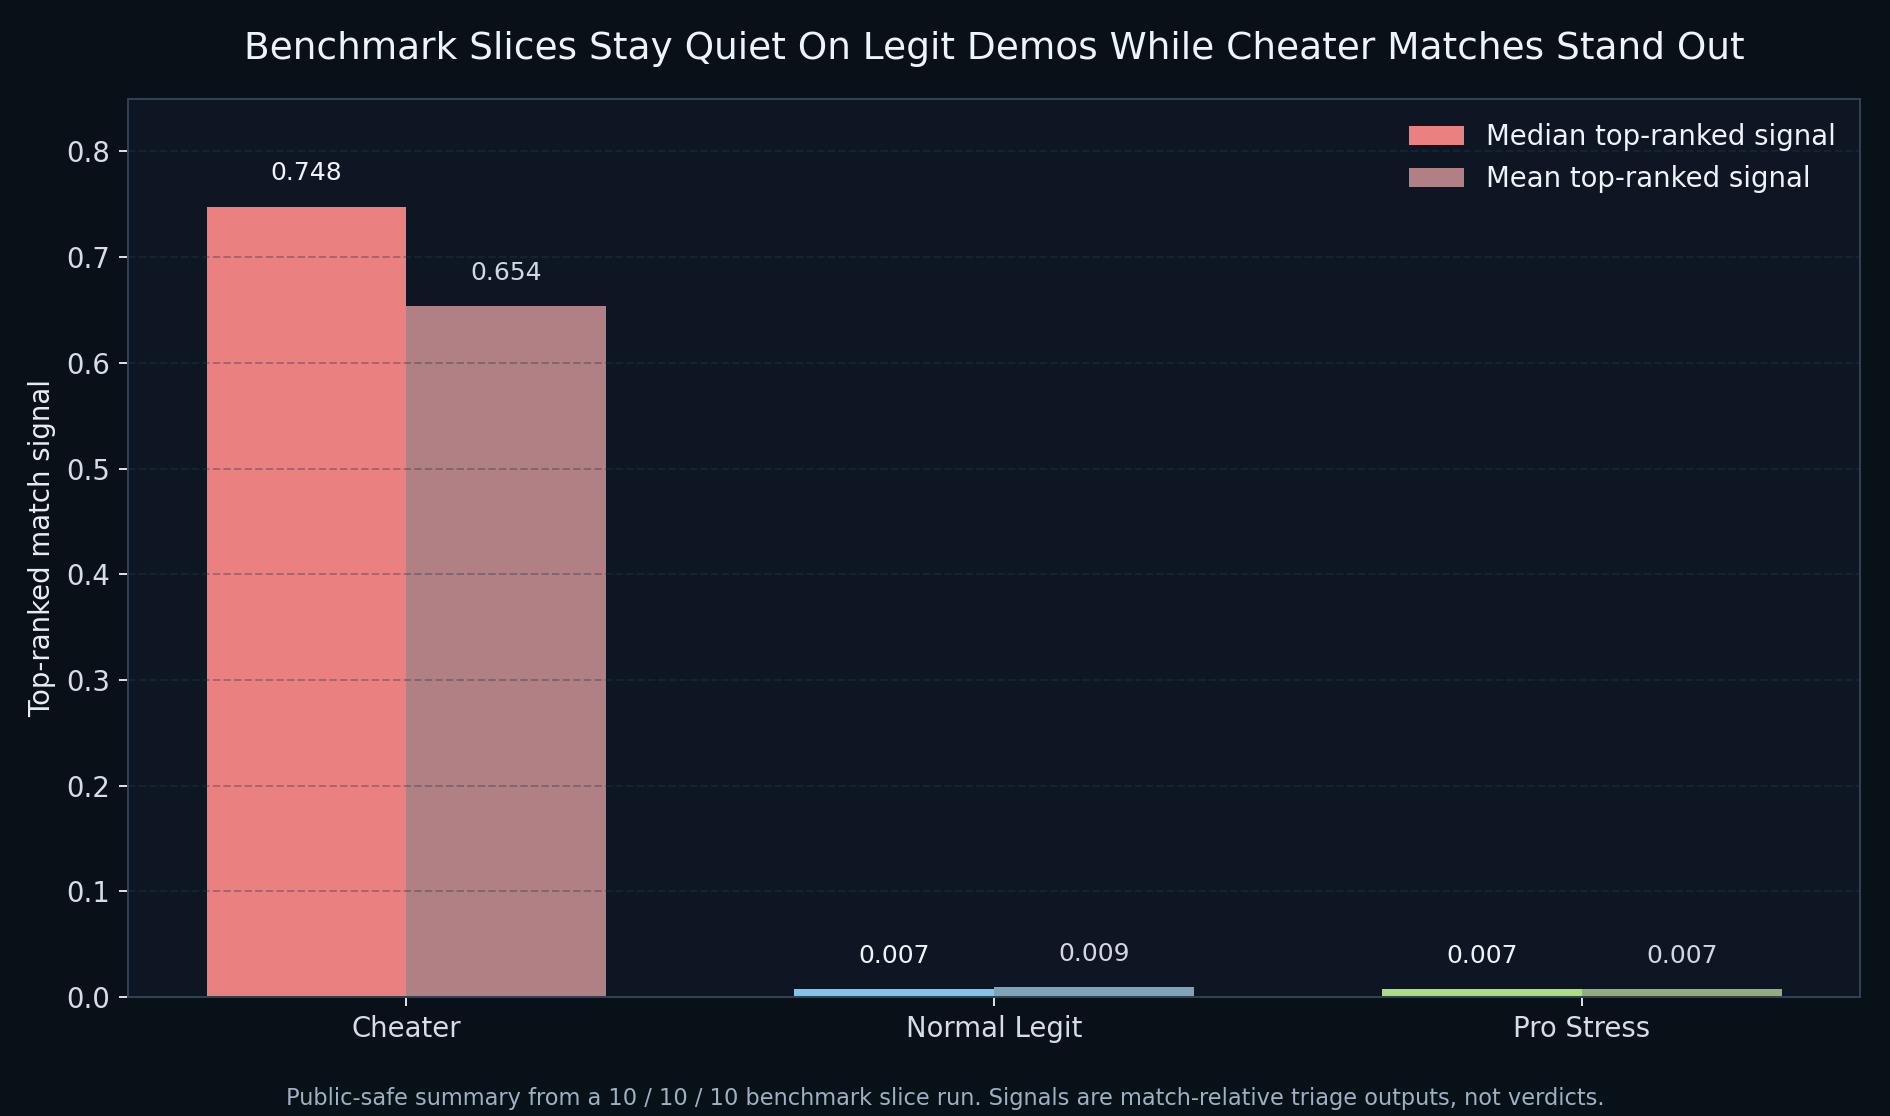
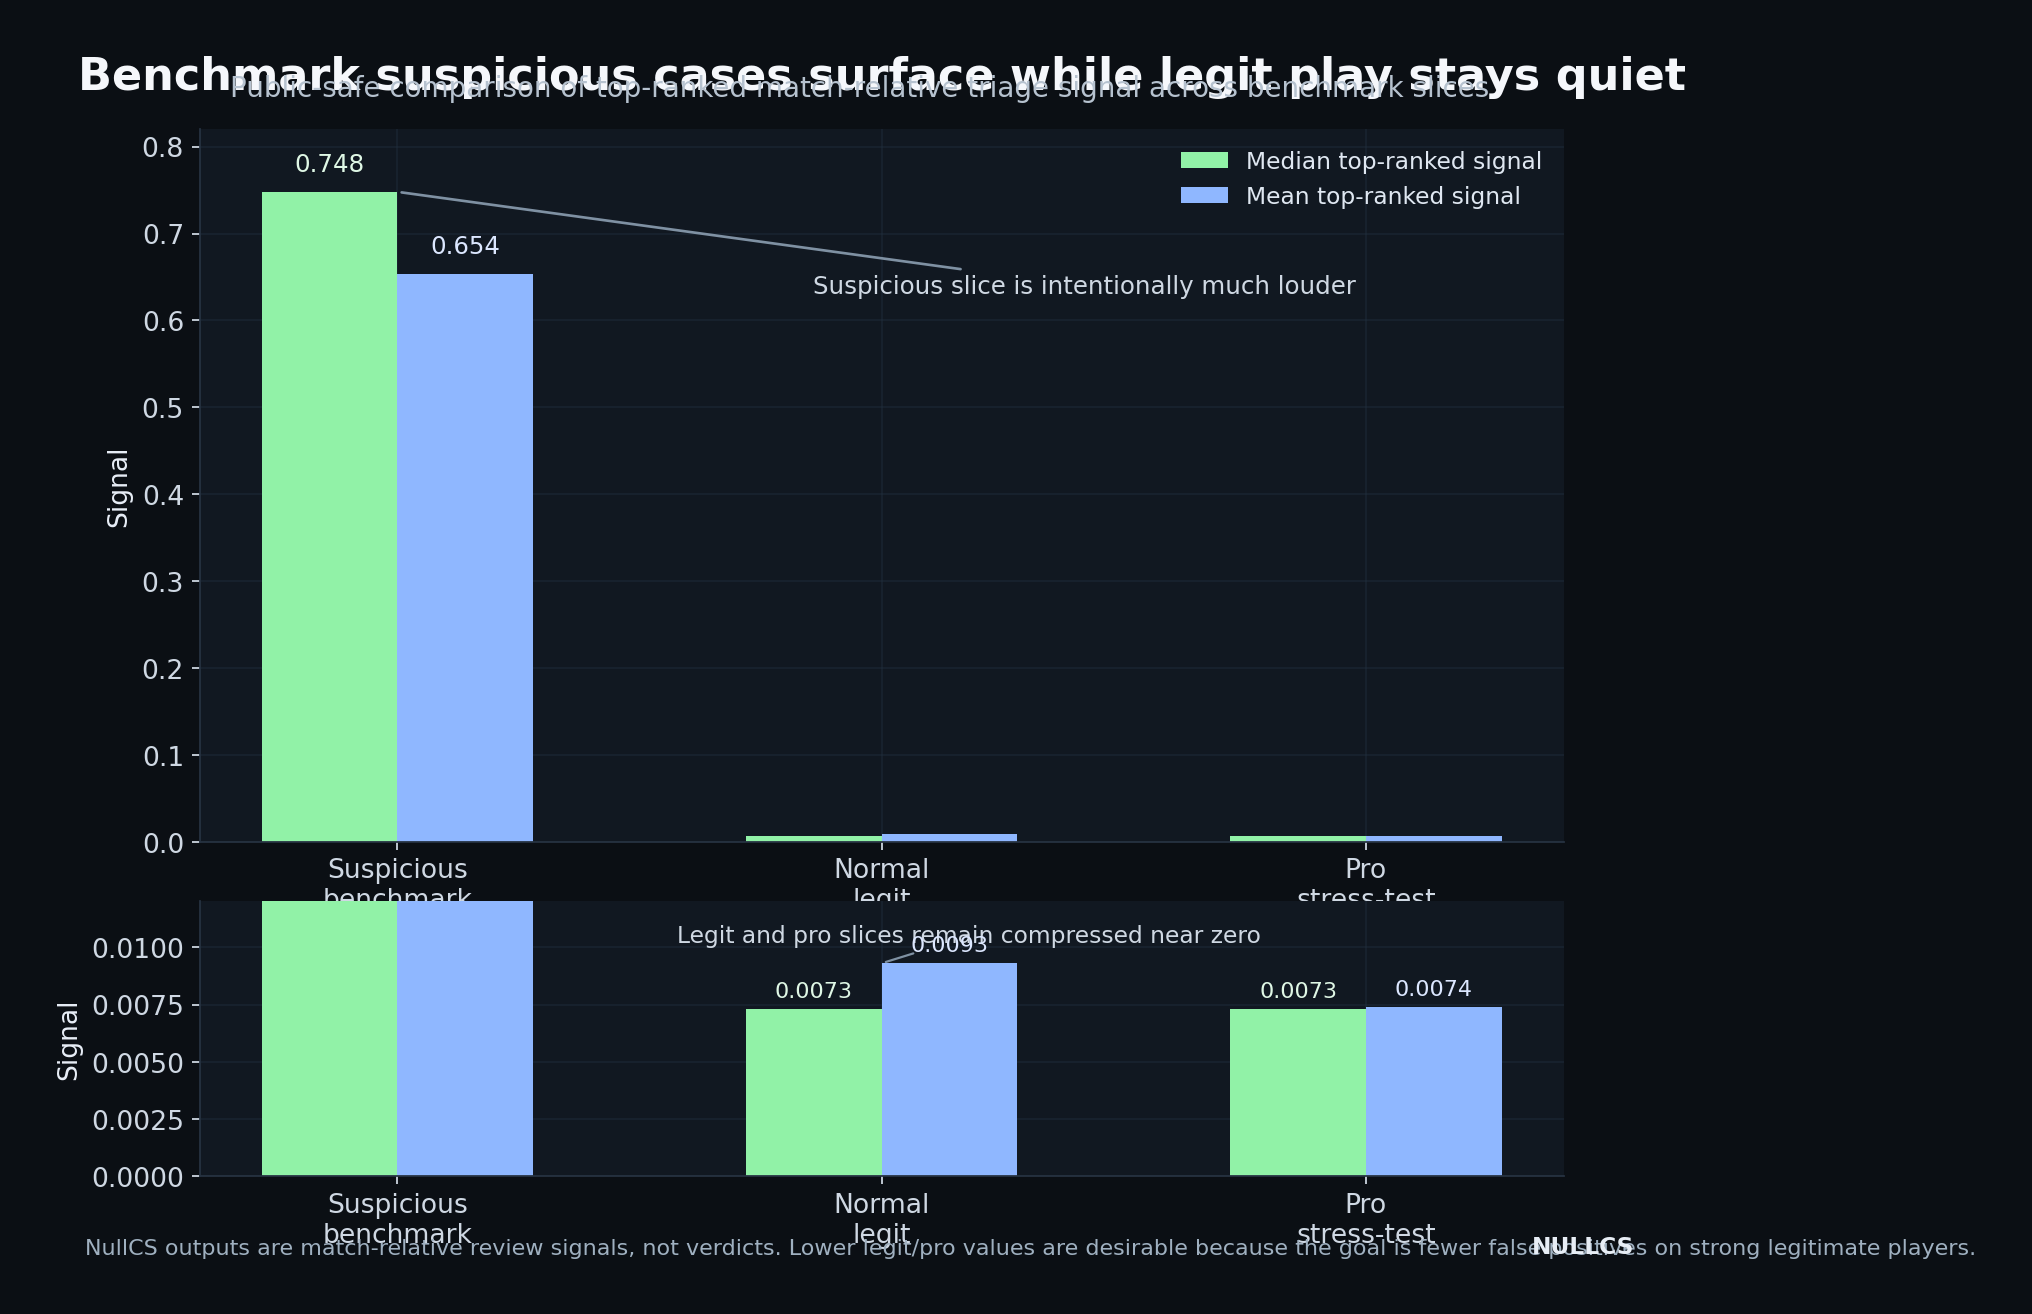
docs: clarify benchmark evidence in public repo

diff --git a/main/scripts/generate_public_benchmark_plots.py b/main/scripts/generate_public_benchmark_plots.py
@@ -1,0 +1,195 @@
+from __future__ import annotations
+
+from pathlib import Path
+
+import matplotlib.pyplot as plt
+import numpy as np
+
+
+ROOT = Path(__file__).resolve().parents[2]
+OUT_DIR = ROOT / "docs" / "assets" / "plots"
+
+
+def _style() -> None:
+    plt.rcParams.update(
+        {
+            "figure.facecolor": "#0b0f14",
+            "axes.facecolor": "#111821",
+            "axes.edgecolor": "#263241",
+            "axes.labelcolor": "#e8eef7",
+            "xtick.color": "#cfd8e3",
+            "ytick.color": "#cfd8e3",
+            "text.color": "#f5f7fb",
+            "axes.titlecolor": "#f5f7fb",
+            "font.size": 12,
+            "axes.titleweight": "bold",
+            "axes.grid": True,
+            "grid.color": "#22303f",
+            "grid.alpha": 0.45,
+            "grid.linestyle": "-",
+            "grid.linewidth": 0.8,
+            "savefig.facecolor": "#0b0f14",
+            "savefig.edgecolor": "#0b0f14",
+        }
+    )
+
+
+def _ensure_out() -> None:
+    OUT_DIR.mkdir(parents=True, exist_ok=True)
+
+
+def build_benchmark_slice_plot() -> None:
+    categories = ["Suspicious\nbenchmark", "Normal\nlegit", "Pro\nstress-test"]
+    median = np.array([0.748, 0.0073, 0.0073])
+    mean = np.array([0.654, 0.0093, 0.0074])
+    x = np.arange(len(categories))
+    width = 0.28
+    colors = {"median": "#91f2a7", "mean": "#8fb7ff"}
+
+    fig = plt.figure(figsize=(11, 8.5), dpi=160)
+    gs = fig.add_gridspec(2, 1, height_ratios=[3.5, 1.35], hspace=0.12)
+    ax_main = fig.add_subplot(gs[0])
+    ax_zoom = fig.add_subplot(gs[1])
+
+    for ax in (ax_main, ax_zoom):
+        ax.bar(x - width / 2, median, width=width, color=colors["median"], label="Median top-ranked signal")
+        ax.bar(x + width / 2, mean, width=width, color=colors["mean"], label="Mean top-ranked signal")
+        ax.set_xticks(x, categories)
+        ax.spines["top"].set_visible(False)
+        ax.spines["right"].set_visible(False)
+        ax.set_axisbelow(True)
+
+    ax_main.set_ylim(0, 0.82)
+    ax_zoom.set_ylim(0, 0.012)
+    ax_main.set_ylabel("Signal")
+    ax_zoom.set_ylabel("Signal")
+
+    ax_main.set_title("Benchmark suspicious cases surface while legit play stays quiet", fontsize=20, pad=18)
+    fig.text(
+        0.5,
+        0.91,
+        "Public-safe comparison of top-ranked match-relative triage signal across benchmark slices",
+        ha="center",
+        va="center",
+        fontsize=12.5,
+        color="#b6c2cf",
+    )
+
+    ax_main.legend(
+        loc="upper right",
+        frameon=False,
+        fontsize=10.5,
+        labelcolor="#dfe7f1",
+    )
+
+    ax_main.annotate(
+        "Suspicious slice is intentionally much louder",
+        xy=(x[0], median[0]),
+        xytext=(0.45, 0.77),
+        textcoords="axes fraction",
+        arrowprops=dict(arrowstyle="-", color="#7f91a3", lw=1.2),
+        fontsize=11,
+        color="#cfd8e3",
+    )
+    ax_zoom.annotate(
+        "Legit and pro slices remain compressed near zero",
+        xy=(x[1], mean[1]),
+        xytext=(0.35, 0.85),
+        textcoords="axes fraction",
+        arrowprops=dict(arrowstyle="-", color="#7f91a3", lw=1.0),
+        fontsize=10.5,
+        color="#cfd8e3",
+    )
+
+    for idx, val in enumerate(median):
+        if val > 0.05:
+            ax_main.text(idx - width / 2, val + 0.018, f"{val:.3f}", ha="center", va="bottom", fontsize=11, color="#dff7e5")
+        else:
+            ax_zoom.text(idx - width / 2, val + 0.00035, f"{val:.4f}", ha="center", va="bottom", fontsize=10, color="#dff7e5")
+
+    for idx, val in enumerate(mean):
+        if val > 0.05:
+            ax_main.text(idx + width / 2, val + 0.018, f"{val:.3f}", ha="center", va="bottom", fontsize=11, color="#dce7ff")
+        else:
+            ax_zoom.text(idx + width / 2, val + 0.00035, f"{val:.4f}", ha="center", va="bottom", fontsize=10, color="#dce7ff")
+
+    fig.text(
+        0.06,
+        0.05,
+        "NullCS outputs are match-relative review signals, not verdicts. Lower legit/pro values are desirable because the goal is fewer false positives on strong legitimate players.",
+        ha="left",
+        va="bottom",
+        fontsize=10,
+        color="#9fb0c0",
+    )
+    fig.text(0.94, 0.05, "NULLCS", ha="right", va="bottom", fontsize=10.5, color="#e7edf5", weight="bold")
+
+    fig.savefig(OUT_DIR / "benchmark_slice_signals.png", bbox_inches="tight", pad_inches=0.35)
+    plt.close(fig)
+
+
+def build_retrieval_plot() -> None:
+    labels = ["Top-1\nretrieval", "Top-3\nretrieval"]
+    values = np.array([0.60, 0.90])
+    colors = ["#f4be74", "#91f2a7"]
+
+    fig, ax = plt.subplots(figsize=(9, 6), dpi=160)
+    x = np.arange(len(labels))
+    bars = ax.bar(x, values, width=0.42, color=colors)
+
+    ax.set_ylim(0, 1.0)
+    ax.set_xticks(x, labels)
+    ax.set_ylabel("Share of suspicious matches retrieved")
+    ax.set_title("Suspicious benchmark retrieval stays strong at the top of the lobby", fontsize=18, pad=16)
+    ax.text(
+        0.5,
+        1.02,
+        "High-level public-safe retrieval summary from the current match-level triage stack",
+        transform=ax.transAxes,
+        ha="center",
+        va="bottom",
+        fontsize=11.5,
+        color="#b6c2cf",
+    )
+    ax.spines["top"].set_visible(False)
+    ax.spines["right"].set_visible(False)
+    ax.set_axisbelow(True)
+
+    for rect, value in zip(bars, values):
+        ax.text(
+            rect.get_x() + rect.get_width() / 2,
+            value + 0.03,
+            f"{int(round(value * 100))}%",
+            ha="center",
+            va="bottom",
+            fontsize=16,
+            weight="bold",
+            color="#f5f7fb",
+        )
+
+    ax.text(
+        0.5,
+        -0.18,
+        "Interpretation: suspicious benchmark players are often surfaced first, and very often within the top three. This supports review prioritization rather than a standalone cheating claim.",
+        transform=ax.transAxes,
+        ha="center",
+        va="top",
+        fontsize=10,
+        color="#9fb0c0",
+        wrap=True,
+    )
+    fig.text(0.94, 0.05, "NULLCS", ha="right", va="bottom", fontsize=10.5, color="#e7edf5", weight="bold")
+
+    fig.savefig(OUT_DIR / "cheater_retrieval_summary.png", bbox_inches="tight", pad_inches=0.35)
+    plt.close(fig)
+
+
+def main() -> None:
+    _ensure_out()
+    _style()
+    build_benchmark_slice_plot()
+    build_retrieval_plot()
+
+
+if __name__ == "__main__":
+    main()

diff --git a/docs/research_snapshot.md b/docs/research_snapshot.md
@@ -20,6 +20,24 @@ The current benchmark picture is intentionally simple:
 
 This means the current system behaves more like a match-relative anomaly and review-priority layer than an absolute cheat-probability model.
 
+### Public-Safe Benchmark Numbers
+
+Current public-safe summary values:
+
+- suspicious benchmark median top-ranked signal: `0.748`
+- suspicious benchmark mean top-ranked signal: `0.654`
+- normal legit median top-ranked signal: `0.0073`
+- normal legit mean top-ranked signal: `0.0093`
+- pro stress-test median top-ranked signal: `0.0073`
+- pro stress-test mean top-ranked signal: `0.0074`
+
+High-level suspicious benchmark retrieval:
+
+- top-1 retrieval: `0.60`
+- top-3 retrieval: `0.90`
+
+These are match-relative triage outputs, not verdicts. The important shape is that suspicious slices stay much louder while legit and pro slices remain compressed near zero.
+
 ### Benchmark Slice Comparison
 
 ![Benchmark slice comparison](assets/plots/benchmark_slice_signals.png)
@@ -33,11 +51,7 @@ This means the current system behaves more like a match-relative anomaly and rev
 NullCS currently uses a player-level ranking model that can consume stacked encounter-level features. Two points matter:
 
 - the stacked encounter path is useful and improves retrieval stability on benchmark slices
-- the temporal CNN branch integrated successfully, but it is currently research infrastructure rather than the best-performing production candidate
-
-### Stacked Model Comparison
-
-![Stacked model comparison](assets/plots/stacked_model_comparison.png)
+- the temporal CNN branch integrated successfully, but it is currently research infrastructure rather than the best-performing public-facing candidate
 
 ## Public Framing
 
@@ -45,7 +59,6 @@ What this repo is comfortable showing publicly:
 
 - high-level benchmark slices
 - research progress
-- UI and workflow direction
 - restrained experiment summaries
 
 What stays private:

diff --git a/docs/benchmark_methodology.md b/docs/benchmark_methodology.md
@@ -68,6 +68,17 @@ The public repo focuses on simple, interpretable summaries such as:
 
 These summaries are enough to communicate the project direction without exposing private data, model artifacts, or sensitive operational details.
 
+### Current Public-Safe Summary
+
+At the time of writing, the public benchmark story is:
+
+- suspicious benchmark median / mean top-ranked signal: `0.748 / 0.654`
+- normal legit median / mean top-ranked signal: `0.0073 / 0.0093`
+- pro stress-test median / mean top-ranked signal: `0.0073 / 0.0074`
+- suspicious benchmark top-1 / top-3 retrieval: `0.60 / 0.90`
+
+These values are not presented as enforcement thresholds. They are compact evidence that the current stack is louder on suspicious benchmark cases while staying restrained on strong legitimate slices.
+
 ## Why Match-Relative Signals
 
 NullCS produces match-relative triage outputs.
@@ -106,6 +117,5 @@ The benchmark should be read like this:
 - suspicious benchmark slices should be visually and numerically louder
 - legit and pro slices should stay visually and numerically quiet
 - the project is strongest when both are true at once
-
 
 

diff --git a/README.md b/README.md
@@ -14,6 +14,8 @@ If you are visiting the repo for the first time, read these in order:
    What the modeling pipeline is actually trying to do
 3. `docs/benchmark_methodology.md`
    How to interpret the benchmark slices and why quiet legit/pro behavior matters
+4. `SECURITY.md`
+   Public-safe repo boundaries and what stays private
 
 The desktop application itself is not part of the public repo, but a desktop beta is planned for this summer.
 
@@ -40,6 +42,13 @@ The strongest current high-level benchmark story is:
 - suspicious benchmark cases surface clearly at the top of the lobby
 - held-out normal legit demos stay very quiet
 - pro stress-test demos also stay quiet
+
+Public-safe benchmark summary:
+
+- suspicious benchmark median / mean top-ranked signal: `0.748 / 0.654`
+- normal legit median / mean top-ranked signal: `0.0073 / 0.0093`
+- pro stress-test median / mean top-ranked signal: `0.0073 / 0.0074`
+- suspicious benchmark top-1 / top-3 retrieval: `0.60 / 0.90`
 
 That is the right shape for a behavioral review system. The goal is not to call someone a cheater from one score. The goal is to surface the players who deserve deeper review while minimizing false positives on strong legitimate players.
 